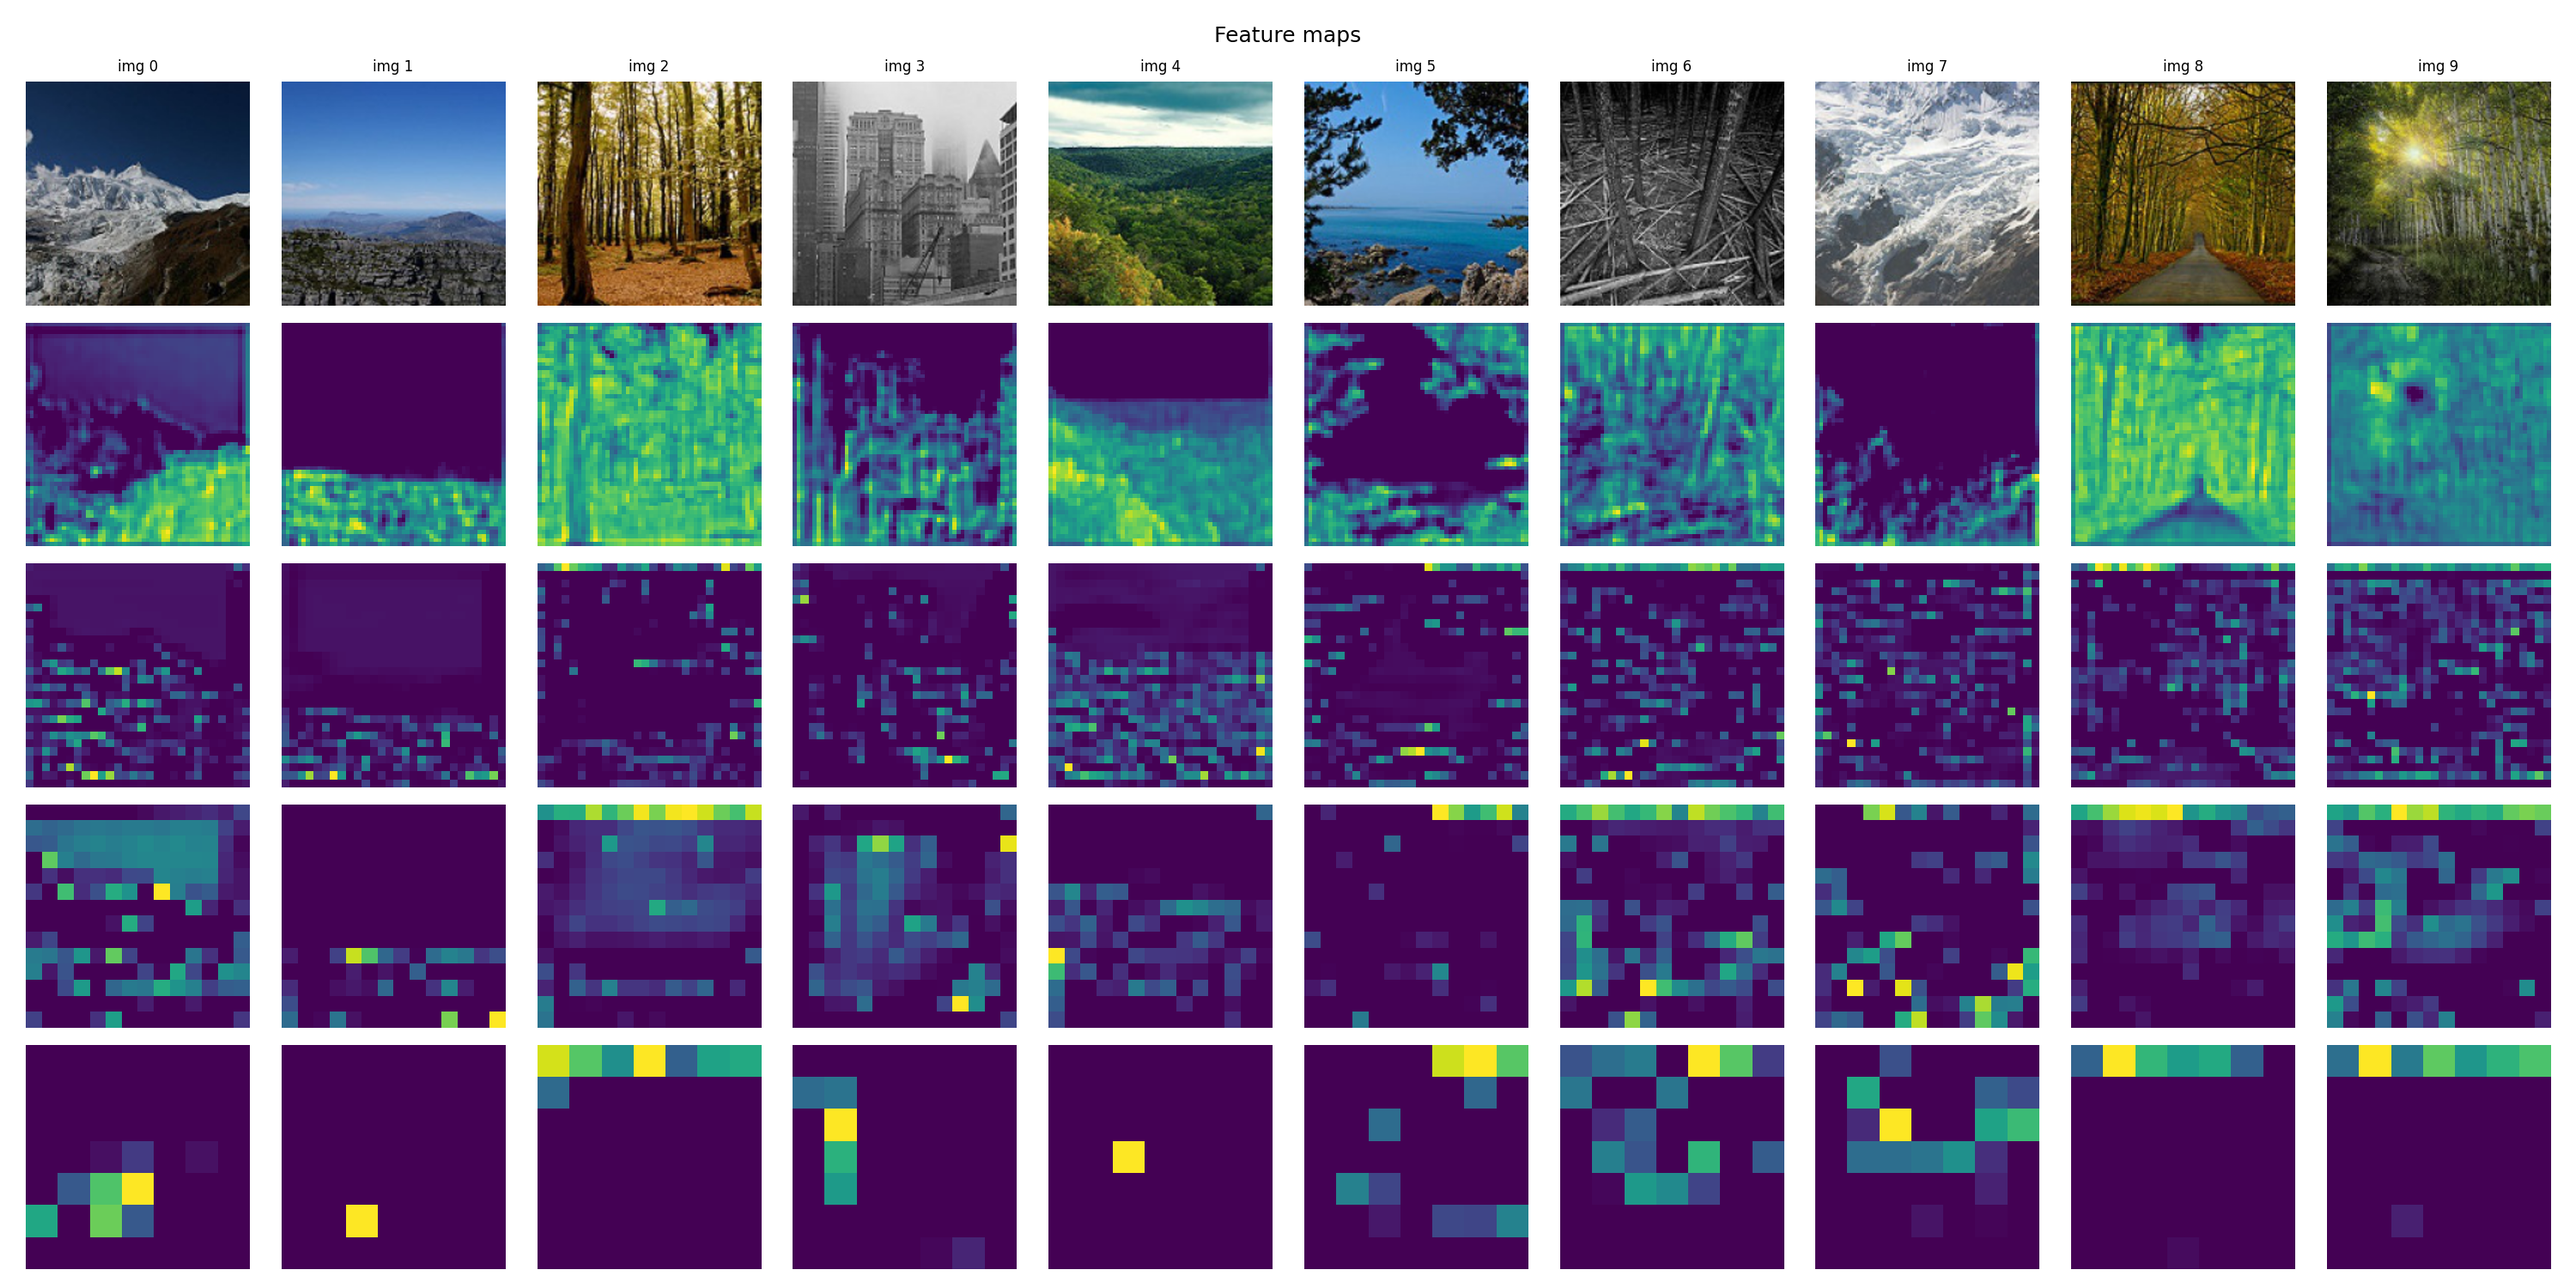
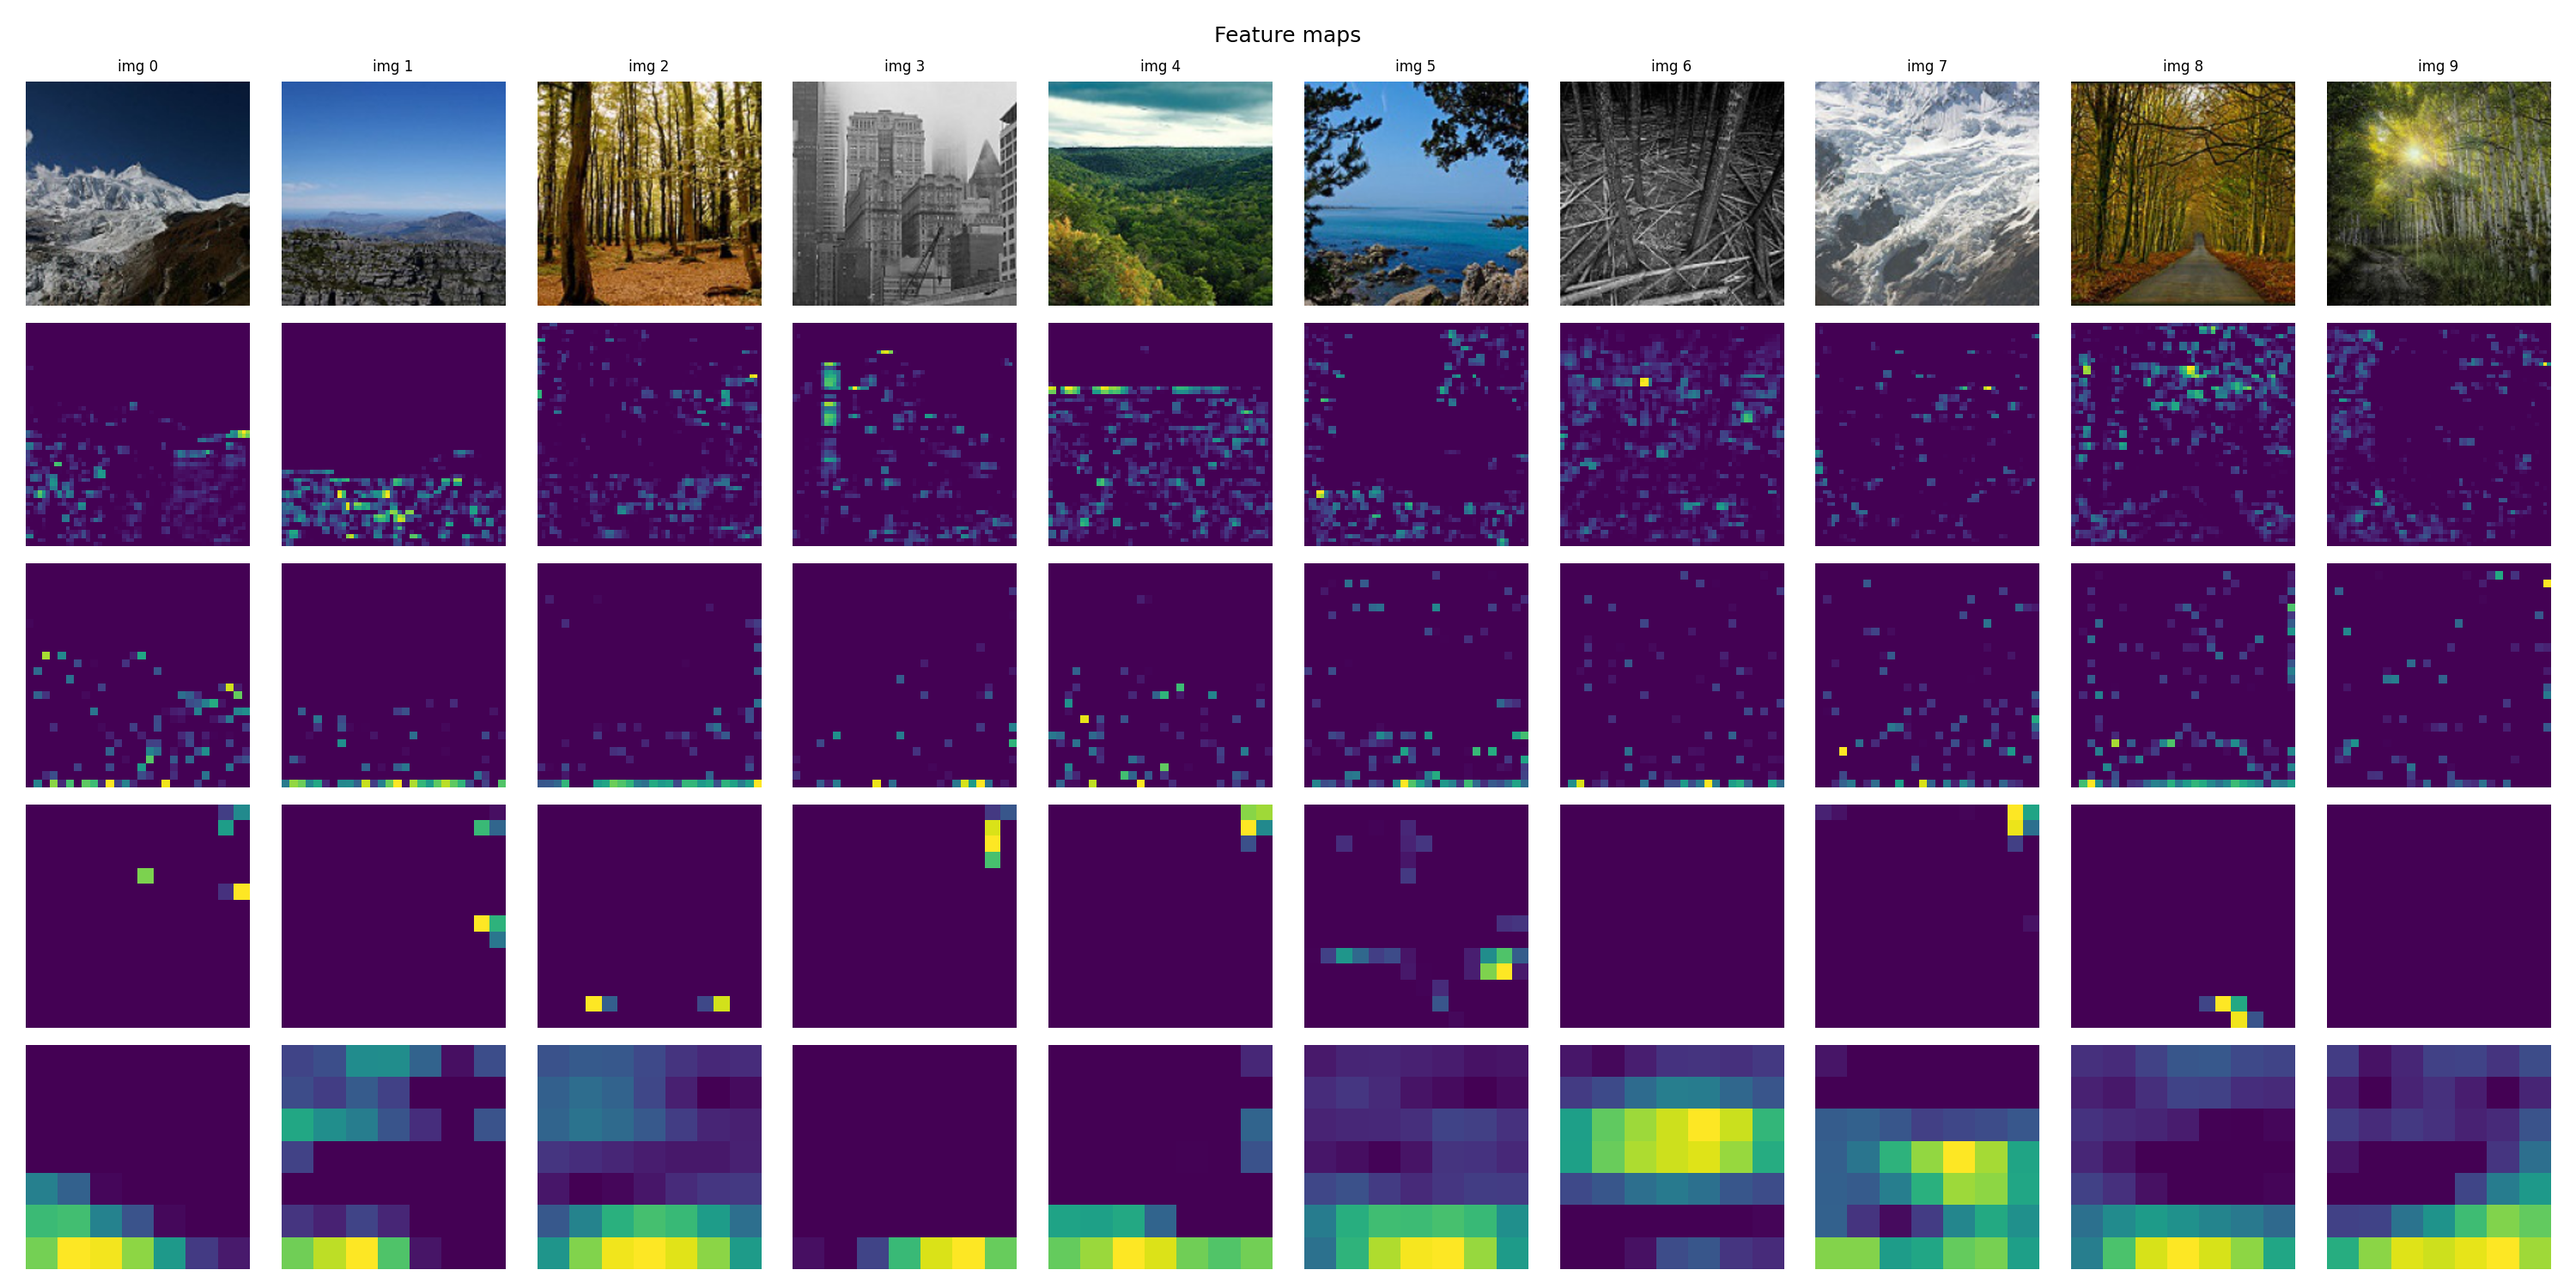
patch for transfer learning

diff --git a/2026 Mandatory1/src/evaluate.py b/2026 Mandatory1/src/evaluate.py
@@ -72,8 +72,8 @@ def evaluate(model, loader, criterion):
     return mAP, mean_acc, ap_per_class, acc_per_class, test_loss, all_probs
 
 
-def verify_scores(model_path, num_layers, scores_path, loader):
-    model = load_model(model_path, num_layers=num_layers)
+def verify_scores(model_path, num_layers, scores_path, loader, pretrained=False):
+    model = load_model(model_path, num_layers=num_layers, pretrained=pretrained)
     model = model.to(device)
     model.eval()
 
@@ -115,9 +115,10 @@ if __name__ == "__main__":
 
         model_path = os.path.join(os.path.dirname(__file__), "..", cfg["save_path"])
         num_layers = cfg["model"]["num_layers"]
+        pretrained = cfg["model"].get("pretrained", False)
         model_name = os.path.splitext(os.path.basename(model_path))[0]
 
-        model = load_model(model_path, num_layers=num_layers)
+        model = load_model(model_path, num_layers=num_layers, pretrained=pretrained)
         model = model.to(device)
 
         for split_name, loader in [("val", val_loader), ("test", test_loader)]:
@@ -144,7 +145,7 @@ if __name__ == "__main__":
                 scores_path = os.path.join(MODELS_DIR, f"{model_name}_scores.npy")
                 np.save(scores_path, scores)
                 print(f"Saved scores to {scores_path}")
-                verify_scores(model_path, num_layers, scores_path, test_loader)
+                verify_scores(model_path, num_layers, scores_path, test_loader, pretrained=pretrained)
 
     with open(csv_path, "w", newline="") as f:
         writer = csv.DictWriter(f, fieldnames=csv_rows[0].keys())

diff --git a/2026 Mandatory1/src/feature_maps_statistics.py b/2026 Mandatory1/src/feature_maps_statistics.py
@@ -20,7 +20,9 @@ device = torch.device("cuda" if torch.cuda.is_available() else "cpu")
 
 
 # part a
-def get_layer_names():
+def get_layer_names(pretrained=False):
+    if pretrained:
+        return ["layer1", "layer2", "layer3", "layer4"]
     return ["stage1", "stage2", "stage3", "stage4"]
 
 
@@ -160,8 +162,8 @@ def main():
     print(f"device: {device}")
 
     # load model
-    model_path = os.path.join(MODELS_DIR, "model1.pth")
-    model = load_model(model_path, num_layers=18, pretrained=False)
+    model_path = os.path.join(MODELS_DIR, "model3_transfer.pth")
+    model = load_model(model_path, num_layers=18, pretrained=True)
     model = model.to(device)
     model.eval()
     print(f"loaded {model_path}")
@@ -176,7 +178,7 @@ def main():
     loader = DataLoader(val_set, batch_size=16, shuffle=False, num_workers=0)
 
     # part a
-    layers = get_layer_names()
+    layers = get_layer_names(pretrained=True)
     print(f"layers: {layers}")
 
     # part c
@@ -184,7 +186,7 @@ def main():
     visualize(model, loader, layers, OUT_DIR, n_imgs=10)
 
     # part e
-    five = ["conv1", "stage1", "stage2", "stage3", "stage4"]
+    five = ["conv1", "layer1", "layer2", "layer3", "layer4"]
     print(f"five modules: {five}")
 
     # part f
